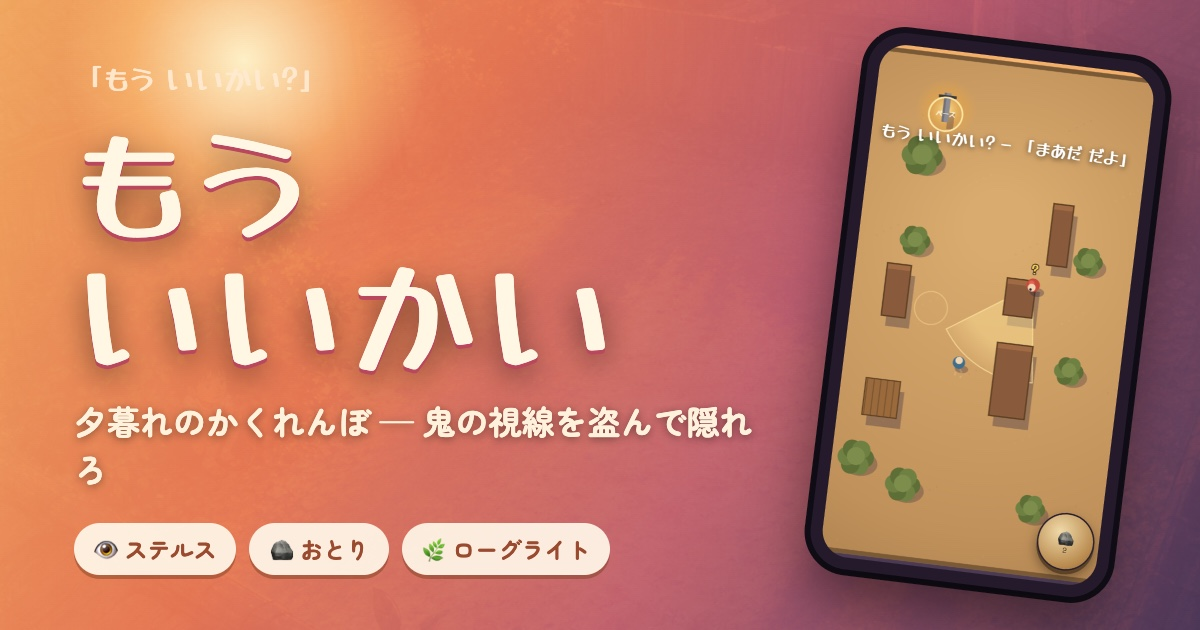
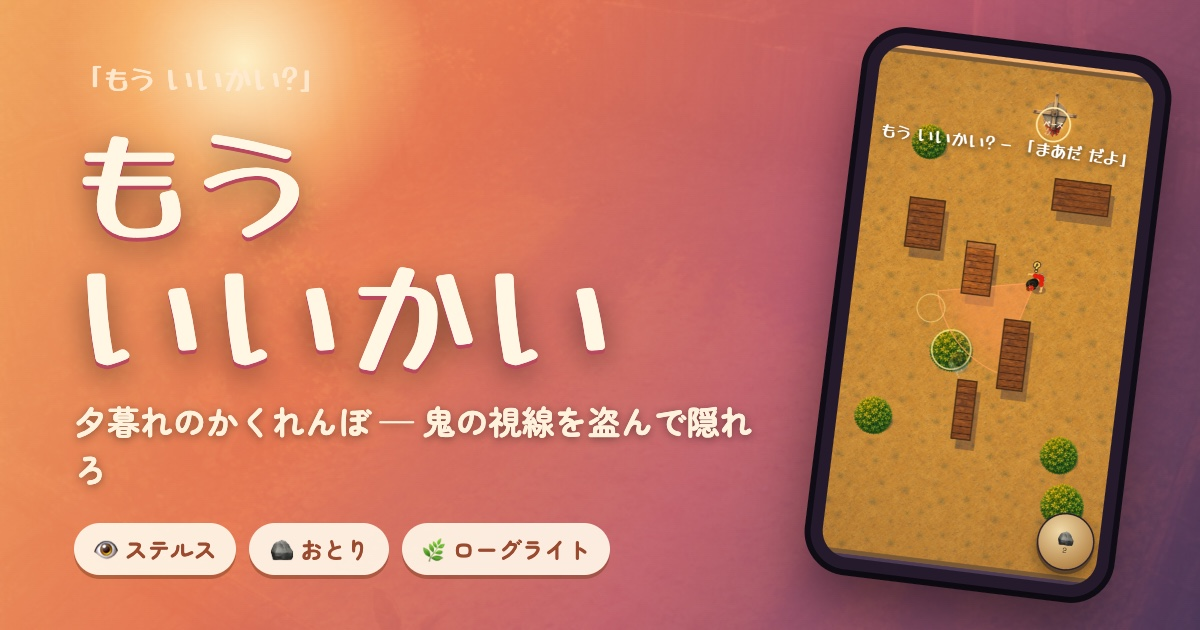
Enrich もういいかい with generated top-down sprites
ゲーム内の見た目を Codex 経由の gpt-image 生成アセットでリッチ化:
- 地面(夕暮れの土)・板塀(木材)テクスチャをタイル敷き
- 隠れ手の子供・鬼(赤いお面+両腕広げ)・茂み・ベースの祠スプライト
- gpt-imageは透過非対応のためマゼンタ背景生成→ヘッドレスCanvasで
  クロマキー+デスピル+bbox切り抜きで透過PNG化
- キャラはface方向に回転描画。全スプライトは読込失敗時にベクター描画へ
  フォールバック(無言で壊れない)
- OGPもスプライト適用後のプレイ画面で再合成

実ブラウザE2Eで全フロー・consoleエラーゼロ・画像ロードを再確認。

Changed region(s): [[0.6783, 0.0603, 0.9867, 0.9349]]

diff --git a/games/mouiikai/index.html b/games/mouiikai/index.html
@@ -386,6 +386,20 @@
     flash: 0, shake: 0, t: 0,
   };
 
+  /* ---------- スプライト画像(読み込み失敗時はベクター描画にフォールバック) ---------- */
+  const IMG = {};
+  (function(){
+    const list = { ground:"assets/spr/ground.jpg", wood:"assets/spr/wood.jpg",
+                   player:"assets/spr/player.png", oni:"assets/spr/oni.png",
+                   bush:"assets/spr/bush.png", pole:"assets/spr/pole.png" };
+    for (const k in list){ const im=new Image(); im.onload=()=>{IMG[k]=im;}; im.onerror=()=>{}; im.src=list[k]; }
+  })();
+  function tileImg(im, x, y, w, h, ts){
+    ctx.save(); ctx.beginPath(); ctx.rect(x,y,w,h); ctx.clip();
+    for(let yy=y; yy<y+h; yy+=ts) for(let xx=x; xx<x+w; xx+=ts) ctx.drawImage(im, xx, yy, ts, ts);
+    ctx.restore();
+  }
+
   // 描画スケール(ロットを画面にフィット)
   let scale = 1, offX = 0, offY = 0;
   function recomputeFit() {
@@ -794,13 +808,20 @@
   }
 
   function drawGround(){
-    const g=ctx.createRadialGradient(G.lotW*0.5,G.lotH*0.32,60, G.lotW*0.5,G.lotH*0.5,G.lotH*0.8);
-    g.addColorStop(0,"#d9ab6e"); g.addColorStop(0.6,"#c0915a"); g.addColorStop(1,"#9a7144");
-    ctx.fillStyle=g; ctx.fillRect(0,0,G.lotW,G.lotH);
-    // 砂目テクスチャ
-    ctx.globalAlpha=0.06;
-    for(let i=0;i<60;i++){ const x=(i*97.13)%G.lotW, y=(i*53.7*2.1)%G.lotH; ctx.fillStyle= i%2?"#5a3f22":"#fff2d0"; ctx.fillRect(x,y,3,3); }
-    ctx.globalAlpha=1;
+    if(IMG.ground){
+      tileImg(IMG.ground, 0,0, G.lotW, G.lotH, 300);
+    } else {
+      const g=ctx.createRadialGradient(G.lotW*0.5,G.lotH*0.32,60, G.lotW*0.5,G.lotH*0.5,G.lotH*0.8);
+      g.addColorStop(0,"#d9ab6e"); g.addColorStop(0.6,"#c0915a"); g.addColorStop(1,"#9a7144");
+      ctx.fillStyle=g; ctx.fillRect(0,0,G.lotW,G.lotH);
+      ctx.globalAlpha=0.06;
+      for(let i=0;i<60;i++){ const x=(i*97.13)%G.lotW, y=(i*53.7*2.1)%G.lotH; ctx.fillStyle= i%2?"#5a3f22":"#fff2d0"; ctx.fillRect(x,y,3,3); }
+      ctx.globalAlpha=1;
+    }
+    // 夕日のヴィネット(温かみと中央への視線誘導)
+    const vg=ctx.createRadialGradient(G.lotW*0.5,G.lotH*0.4,G.lotH*0.2, G.lotW*0.5,G.lotH*0.5,G.lotH*0.75);
+    vg.addColorStop(0,"rgba(255,210,140,0.10)"); vg.addColorStop(1,"rgba(60,40,46,0.30)");
+    ctx.fillStyle=vg; ctx.fillRect(0,0,G.lotW,G.lotH);
     // 外枠(塀)
     ctx.strokeStyle="#7a5a36"; ctx.lineWidth=8; ctx.strokeRect(4,4,G.lotW-8,G.lotH-8);
   }
@@ -810,19 +831,28 @@
     const hiding = G.player.hidden && dist2(G.player.x,G.player.y,b.x,b.y)<(b.r*0.92)**2;
     // 影
     ctx.fillStyle="rgba(40,30,60,0.28)"; ctx.beginPath(); ctx.ellipse(b.x+8,b.y+10,b.r,b.r*0.7,0,0,7); ctx.fill();
-    const lobes=6;
-    for(let i=0;i<lobes;i++){
-      const a=i/lobes*Math.PI*2; const lx=b.x+Math.cos(a)*b.r*0.5, ly=b.y+Math.sin(a)*b.r*0.5;
-      ctx.fillStyle= i%2?"#6f8043":"#5d6e36"; ctx.beginPath(); ctx.arc(lx,ly,b.r*0.52,0,7); ctx.fill();
+    if(IMG.bush){
+      const s=b.r*2.55; ctx.drawImage(IMG.bush, b.x-s/2, b.y-s/2, s, s);
+    } else {
+      const lobes=6;
+      for(let i=0;i<lobes;i++){
+        const a=i/lobes*Math.PI*2; const lx=b.x+Math.cos(a)*b.r*0.5, ly=b.y+Math.sin(a)*b.r*0.5;
+        ctx.fillStyle= i%2?"#6f8043":"#5d6e36"; ctx.beginPath(); ctx.arc(lx,ly,b.r*0.52,0,7); ctx.fill();
+      }
+      ctx.fillStyle="#7c8d4c"; ctx.beginPath(); ctx.arc(b.x,b.y-2,b.r*0.5,0,7); ctx.fill();
     }
-    ctx.fillStyle="#7c8d4c"; ctx.beginPath(); ctx.arc(b.x,b.y-2,b.r*0.5,0,7); ctx.fill();
     if(hiding){ ctx.strokeStyle="rgba(255,230,160,0.8)"; ctx.lineWidth=3; ctx.beginPath(); ctx.arc(b.x,b.y,b.r+3,0,7); ctx.stroke(); }
     ctx.restore();
   }
 
   function drawWall(w){
     ctx.save();
-    if(w.kind==="fence"){
+    if(IMG.wood){
+      tileImg(IMG.wood, w.x, w.y, w.w, w.h, 130);
+      if(w.kind==="fence"){ ctx.fillStyle="rgba(30,22,30,0.20)"; ctx.fillRect(w.x,w.y,w.w,w.h); } // 板塀は少し暗く
+      else { ctx.fillStyle="rgba(255,205,130,0.20)"; ctx.fillRect(w.x,w.y,w.w,Math.min(11,w.h*0.4)); } // 物置は上面に夕日
+      ctx.strokeStyle="#4a2f18"; ctx.lineWidth=2.5; ctx.strokeRect(w.x,w.y,w.w,w.h);
+    } else if(w.kind==="fence"){
       ctx.fillStyle="#9a6a3c"; ctx.fillRect(w.x,w.y,w.w,w.h);
       ctx.fillStyle="#7a5430"; for(let x=w.x;x<w.x+w.w-4;x+=12) ctx.fillRect(x+2,w.y,2,w.h);
       ctx.strokeStyle="#5d3f22"; ctx.lineWidth=2; ctx.strokeRect(w.x,w.y,w.w,w.h);
@@ -842,10 +872,14 @@
     g.addColorStop(0,"rgba(255,225,140,0.85)"); g.addColorStop(0.5,"rgba(240,168,60,0.4)"); g.addColorStop(1,"rgba(240,168,60,0)");
     ctx.fillStyle=g; ctx.beginPath(); ctx.arc(b.x,b.y,b.r+18+pulse*8,0,7); ctx.fill();
     // 電柱
-    ctx.fillStyle="rgba(40,30,60,0.3)"; ctx.fillRect(b.x-6+10,b.y-4+8,12,30);
-    ctx.fillStyle="#8c8c92"; ctx.fillRect(b.x-6,b.y-30,12,52);
-    ctx.fillStyle="#6f6f76"; ctx.fillRect(b.x-6,b.y-30,4,52);
-    ctx.fillStyle="#3a3a40"; ctx.fillRect(b.x-16,b.y-26,32,5);
+    if(IMG.pole){
+      const s=b.r*2.7; ctx.drawImage(IMG.pole, b.x-s/2, b.y-s*0.62, s, s);
+    } else {
+      ctx.fillStyle="rgba(40,30,60,0.3)"; ctx.fillRect(b.x-6+10,b.y-4+8,12,30);
+      ctx.fillStyle="#8c8c92"; ctx.fillRect(b.x-6,b.y-30,12,52);
+      ctx.fillStyle="#6f6f76"; ctx.fillRect(b.x-6,b.y-30,4,52);
+      ctx.fillStyle="#3a3a40"; ctx.fillRect(b.x-16,b.y-26,32,5);
+    }
     // ベースの輪
     ctx.strokeStyle="rgba(255,235,170,"+(0.6+pulse*0.4)+")"; ctx.lineWidth=3;
     ctx.beginPath(); ctx.arc(b.x,b.y+8,b.r,0,7); ctx.stroke();
@@ -874,14 +908,15 @@
     ctx.save();
     // 影
     ctx.fillStyle="rgba(40,30,60,0.32)"; ctx.beginPath(); ctx.ellipse(o.x+8,o.y+12,13,8,0,0,7); ctx.fill();
-    // 体
-    ctx.fillStyle="#c64b3a"; ctx.beginPath(); ctx.arc(o.x,o.y,12,0,7); ctx.fill();
-    ctx.fillStyle="#e2654f"; ctx.beginPath(); ctx.arc(o.x-3,o.y-3,5,0,7); ctx.fill();
-    // 頭(向き)
-    ctx.fillStyle="#f0d3b0"; ctx.beginPath(); ctx.arc(o.x+Math.cos(o.face)*5,o.y+Math.sin(o.face)*5,7,0,7); ctx.fill();
-    // 目
-    const ex=o.x+Math.cos(o.face)*9, ey=o.y+Math.sin(o.face)*9;
-    ctx.fillStyle="#2a2030"; ctx.beginPath(); ctx.arc(ex,ey,2.2,0,7); ctx.fill();
+    if(IMG.oni){
+      const s=44; ctx.save(); ctx.translate(o.x,o.y); ctx.rotate(o.face+Math.PI/2); ctx.drawImage(IMG.oni,-s/2,-s/2,s,s); ctx.restore();
+    } else {
+      ctx.fillStyle="#c64b3a"; ctx.beginPath(); ctx.arc(o.x,o.y,12,0,7); ctx.fill();
+      ctx.fillStyle="#e2654f"; ctx.beginPath(); ctx.arc(o.x-3,o.y-3,5,0,7); ctx.fill();
+      ctx.fillStyle="#f0d3b0"; ctx.beginPath(); ctx.arc(o.x+Math.cos(o.face)*5,o.y+Math.sin(o.face)*5,7,0,7); ctx.fill();
+      const ex=o.x+Math.cos(o.face)*9, ey=o.y+Math.sin(o.face)*9;
+      ctx.fillStyle="#2a2030"; ctx.beginPath(); ctx.arc(ex,ey,2.2,0,7); ctx.fill();
+    }
     // マーク
     if(o.susp>0.06){
       const m = o.susp>=0.6?"!":"?";
@@ -906,11 +941,13 @@
     // 影
     ctx.globalAlpha *= 1;
     ctx.fillStyle="rgba(40,30,60,0.3)"; ctx.beginPath(); ctx.ellipse(p.x+6,p.y+11,12,7,0,0,7); ctx.fill();
-    // 体
-    ctx.fillStyle="#3f6e8c"; ctx.beginPath(); ctx.arc(p.x,p.y,11,0,7); ctx.fill();
-    ctx.fillStyle="#5a93b3"; ctx.beginPath(); ctx.arc(p.x-2,p.y-3,5,0,7); ctx.fill();
-    // 頭
-    ctx.fillStyle="#f2d6b3"; ctx.beginPath(); ctx.arc(p.x+Math.cos(p.face)*4,p.y+Math.sin(p.face)*4,6.5,0,7); ctx.fill();
+    if(IMG.player){
+      const s=40; ctx.save(); ctx.translate(p.x,p.y); ctx.rotate(p.face+Math.PI/2); ctx.drawImage(IMG.player,-s/2,-s/2,s,s); ctx.restore();
+    } else {
+      ctx.fillStyle="#3f6e8c"; ctx.beginPath(); ctx.arc(p.x,p.y,11,0,7); ctx.fill();
+      ctx.fillStyle="#5a93b3"; ctx.beginPath(); ctx.arc(p.x-2,p.y-3,5,0,7); ctx.fill();
+      ctx.fillStyle="#f2d6b3"; ctx.beginPath(); ctx.arc(p.x+Math.cos(p.face)*4,p.y+Math.sin(p.face)*4,6.5,0,7); ctx.fill();
+    }
     if(p.hidden){
       ctx.globalAlpha=0.9; ctx.font="14px 'Yusei Magic'"; ctx.textAlign="center"; ctx.fillStyle="#dff0c0";
       ctx.fillText("…",p.x,p.y-16);

diff --git a/games/mouiikai/README.md b/games/mouiikai/README.md
@@ -73,7 +73,13 @@
 - **操作:** Pointer Events 統一のフローティングスティック+石投げボタン。`click` 非依存、ダブルタップズーム抑止(3点セット)、セーフエリア対応、PC用キーボード操作も実装。
 - **音:** Web Audio でリアルタイム合成(足音・葉ずれ・石・発見音・夕方のチャイム風クリア音)。**iOS消音スイッチ対策**(無音WAVを `<audio>` でループ、`AudioContext.resume()` の完了待ち、`interrupted` からの自動復帰)込み。
 - **永続化:** 最高記録(ラウンド/スコア)を localStorage に保存。
-- **画像:** タイトル/OGPのキービジュアルは Codex 経由の gpt-image(「夕暮れの空き地で遊ぶ昭和の子供のかくれんぼ、トップダウン構図、青い長い影、夕焼け、レトロ絵本風」)で生成。OGP は実プレイ画面をスマホ枠に合成した 1200×630 カード。
+- **画像アセット:** タイトル/OGPのキービジュアルに加え、**ゲーム内のスプライトも Codex 経由の gpt-image で生成**(`assets/spr/`):
+  - 地面テクスチャ(夕暮れの土)・板塀の木材テクスチャ … タイル状に敷き詰め
+  - 隠れ手の子供・鬼(赤いお面+両腕を広げて探す)・茂み・ベースの注連縄付き祠 … いずれも**真上から見たトップダウン視点**で生成
+  - gpt-image は透過非対応のため、**マゼンタ(#FF00FF)の単色背景で生成 → ヘッドレスCanvasでクロマキー+デスピル+バウンディングボックスで切り抜き**して透過PNG化(`title`画風を固定の前置きにして6枚を統一感のあるバッチ生成)
+  - キャラは `face` 方向に回転させて描画。**全スプライトは読み込み失敗時にベクター描画へフォールバック**するので無言で壊れない
+  - 注意: 並列生成だと Codex が保存ファイル名を取り違えることがある(木材テクスチャに別画像が入った)。**1枚ずつ生成し直して確認**するのが安全
+- **OGP** は実プレイ画面(スプライト適用後)をスマホ枠に合成した 1200×630 カード。
 
 ---
 